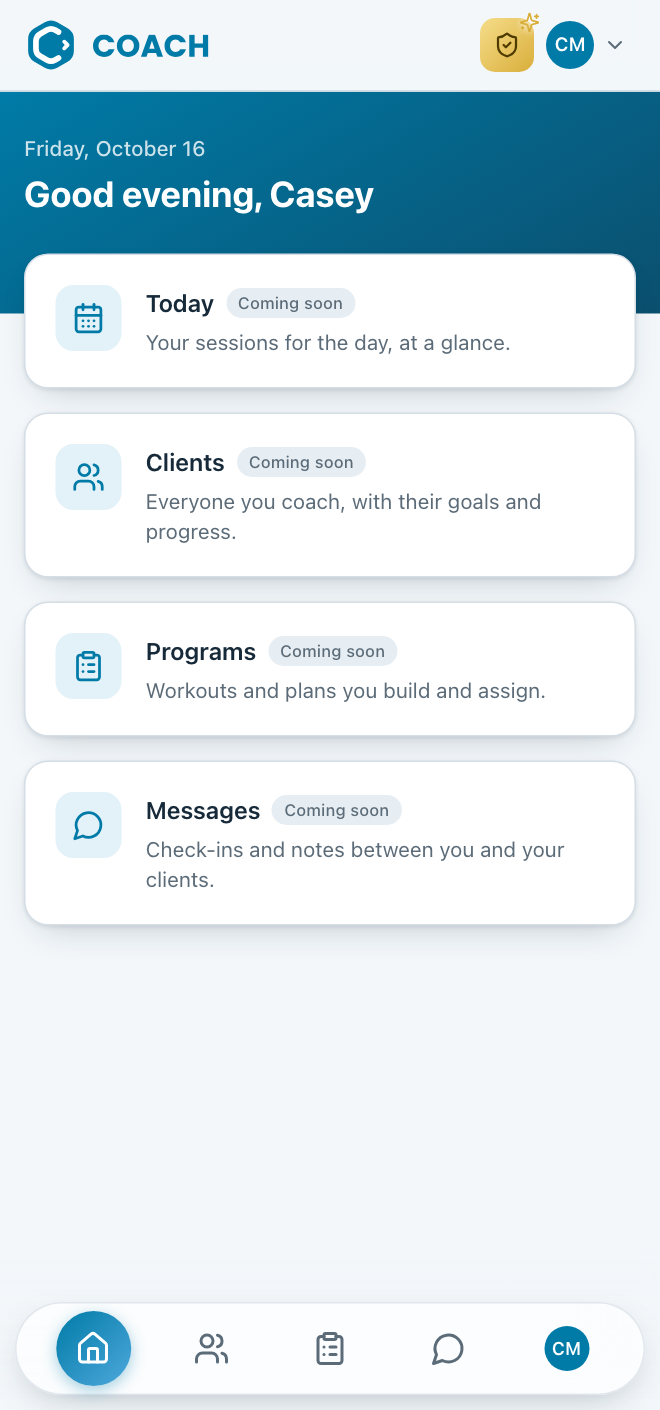
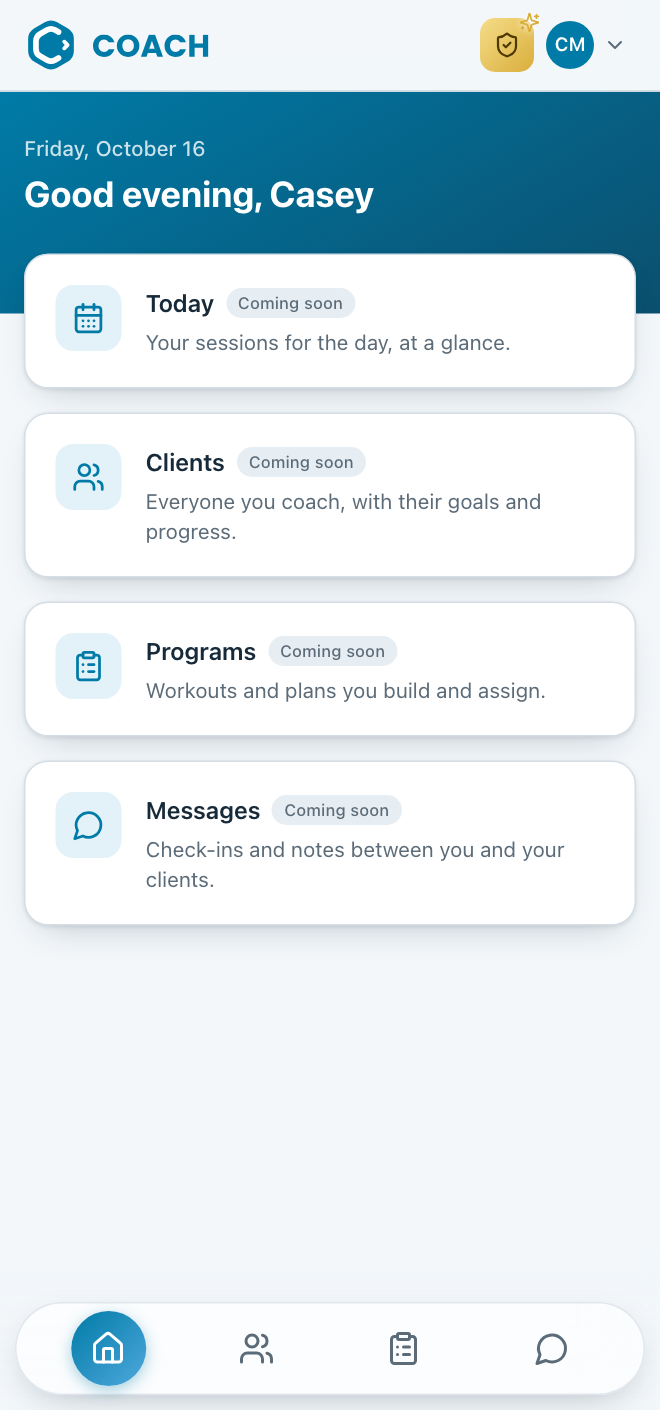
Account menu stays shaded while open; no Profile tab; Coach: programs, progress, and nutrition

diff --git a/src/chrome/Header.jsx b/src/chrome/Header.jsx
@@ -23,8 +23,8 @@ const ROLE = { master: "Master", admin: "Admin" };
  * pointer the badge opens out, as Studio's does: the mark becomes the app's
  * own icon (the tile on a home screen) and its name slides out beside it.
  *
- * Pressed, it folds out the apps panel underneath: Coach, where you are, and
- * Studio, a tap away. Every Coach account is a Studio account, so both are
+ * Pressed, it folds out the apps panel underneath: Coach (ticked, where you
+ * are) and Studio, a tap away, each with a line on what it is for. Every Coach account is a Studio account, so both are
  * always there. Open, the badge stops being a badge on top of a panel and
  * becomes the top of it: one fill, one outline (.cx-logo-badge-open).
  */
@@ -131,11 +131,12 @@ export function Header({ user, onLogout }) {
               <div id="cx-apps-title" className="text-xs uppercase tracking-wide px-2 pt-1 pb-2" style={{ color: "var(--iron)" }}>
                 Trainability apps
               </div>
-              <button type="button" className="cx-app-row" aria-current="page" onClick={() => close({ restoreFocus: true })}>
+              {/* The app you are in: the tick says so, and a screen reader is told by aria-current. */}
+              <button type="button" className="cx-app-row" aria-current="page" aria-label="Coach, the app you are in: programs, progress, and nutrition" onClick={() => close({ restoreFocus: true })}>
                 <img src={coachIcon} alt="" className="flex-none" style={{ width: 40, height: 40, borderRadius: 10 }} />
                 <span className="min-w-0 flex-1 text-left">
                   <span className="block font-semibold">Coach</span>
-                  <span className="block text-sm" style={{ color: "var(--iron)" }}>You&apos;re here</span>
+                  <span className="block text-sm" style={{ color: "var(--iron)" }}>Programs, progress, and nutrition</span>
                 </span>
                 <Check size={20} className="flex-none" style={{ color: "var(--accent)" }} aria-hidden="true" />
               </button>

diff --git a/src/chrome/AccountMenu.jsx b/src/chrome/AccountMenu.jsx
@@ -10,8 +10,8 @@ const ROLE = { master: "Master", admin: "Admin", staff: "Front desk", trainer: "
  * You, in the corner: your photo or initials with a chevron, opening a menu
  * with who is signed in, Open Studio, Log out and the version. Coach's first
  * header had it (Glenn liked it and asked for it back, 16 Oct 2026); it sits
- * after the role badge, and Profile on the tab bar holds the same things.
- * Your name shows beside the photo where there is room.
+ * after the role badge, and is the one place for these — the tab bar has no
+ * Profile. Your name shows beside the photo where there is room.
  */
 export function AccountMenu({ user, onLogout }) {
   const [open, setOpen] = useState(false);
@@ -32,7 +32,9 @@ export function AccountMenu({ user, onLogout }) {
     <div className="relative" ref={ref}>
       <button ref={btnRef} type="button" onClick={() => setOpen(o => !o)} aria-expanded={open} aria-haspopup="menu"
         aria-label={`${user.name}: account menu`}
-        className="flex items-center gap-1.5 rounded-full pl-0.5 pr-1.5 h-9 transition-colors hover:bg-(--ghost-fill)">
+        className="flex items-center gap-1.5 rounded-full pl-0.5 pr-1.5 h-9 transition-colors hover:bg-(--ghost-fill)"
+        /* Highlighted for as long as its menu is open, not only under the pointer. */
+        style={open ? { background: "var(--ghost-fill)" } : undefined}>
         <Avatar user={user} size={32} />
         <span className="hidden sm:block text-sm font-medium max-w-48 truncate" style={{ color: "var(--ink)" }}>{user.name}</span>
         <ChevronDown size={16} style={{ color: "var(--iron)", transform: open ? "rotate(180deg)" : undefined, transition: "transform .2s ease" }} aria-hidden="true" />

diff --git a/src/chrome/BottomNav.jsx b/src/chrome/BottomNav.jsx
@@ -1,5 +1,4 @@
 import React, { useLayoutEffect, useRef, useState } from "react";
-import { Avatar } from "./Avatar";
 
 /* How far the lit circle reaches past its tab: into the bar's padding above
    and below, as in Studio. */
@@ -12,9 +11,10 @@ const LIT_Y = 1;
  * its name for a screen reader and as the browser's tooltip; the names are on
  * each screen's heading.
  *
- * Profile is the last tab and wears your photo or initials, as in Studio.
+ * No Profile tab, unlike Studio: who you are and Log out live in the account
+ * menu in the header's corner (Glenn, 16 Oct 2026).
  */
-export function BottomNav({ tabs, activeTab, onChange, user }) {
+export function BottomNav({ tabs, activeTab, onChange }) {
   const barRef = useRef(null);
   const [lit, setLit] = useState(null);
 
@@ -49,9 +49,7 @@ export function BottomNav({ tabs, activeTab, onChange, user }) {
             <button key={id} type="button" data-tab={id} onClick={() => onChange(id)}
               aria-label={label} title={label} aria-current={on ? "page" : undefined}
               className={`cx-navbtn${on ? " cx-navbtn-on" : ""}`}>
-              {id === "profile"
-                ? <Avatar user={user} size={30} ring={on ? "#fff" : undefined} />
-                : <Icon size={24} strokeWidth={2} aria-hidden="true" />}
+              <Icon size={24} strokeWidth={2} aria-hidden="true" />
             </button>
           );
         })}

diff --git a/src/index.css b/src/index.css
@@ -163,7 +163,7 @@
     border-bottom-left-radius: 0; border-bottom-right-radius: 0; box-shadow: none; }
 
   /* The apps panel, slid down out of the badge and back up into it. */
-  .cx-appdrawer { position: absolute; top: 45px; left: -10px; z-index: 35; width: min(20rem, calc(100vw - 12px));
+  .cx-appdrawer { position: absolute; top: 45px; left: -10px; z-index: 35; width: min(22.5rem, calc(100vw - 12px));
     max-height: 0; overflow: hidden; overflow: clip; transition: max-height .22s ease; pointer-events: none; }
   .cx-appdrawer-open { max-height: 70vh; max-height: 70dvh; pointer-events: auto; }
   .cx-apppanel { background: var(--badge-open); border: 1px solid var(--iron-line); border-top-left-radius: 0;
@@ -205,10 +205,6 @@
     box-shadow: 0 3px 10px rgba(0, 123, 167, 0.35);
     transition: transform .3s cubic-bezier(.3, .7, .2, 1), width .3s cubic-bezier(.3, .7, .2, 1); }
 
-  /* A row in a card that does something: Profile's Open Studio and Log out. */
-  .cx-row { display: flex; align-items: center; gap: 12px; width: 100%; padding: 14px 18px; text-align: left;
-    color: var(--ink); transition: background-color .15s ease; }
-  .cx-row:hover { background: var(--ghost-fill); }
   .cx-card-press { transition: transform .15s ease, box-shadow .15s ease; }
   .cx-card-press:hover { transform: translateY(-1px); }
 

diff --git a/src/Shell.jsx b/src/Shell.jsx
@@ -1,10 +1,9 @@
 import React, { useEffect, useState } from "react";
-import { House, Users, ClipboardList, MessageCircle, UserRound } from "lucide-react";
+import { House, Users, ClipboardList, MessageCircle } from "lucide-react";
 import { Header } from "./chrome/Header";
 import { BottomNav } from "./chrome/BottomNav";
 import { HomeTab } from "./tabs/HomeTab";
 import { ComingSoonTab } from "./tabs/ComingSoonTab";
-import { ProfileTab } from "./tabs/ProfileTab";
 import { SECTIONS } from "./tabs/sections";
 
 const TABS = [
@@ -12,7 +11,6 @@ const TABS = [
   { id: "clients", label: "Clients", icon: Users },
   { id: "programs", label: "Programs", icon: ClipboardList },
   { id: "messages", label: "Messages", icon: MessageCircle },
-  { id: "profile", label: "Profile", icon: UserRound },
 ];
 const KEY = "coach-tab";
 
@@ -32,9 +30,8 @@ export function Shell({ user, onLogout }) {
       <main className="pb-32">
         {tab === "home" && <HomeTab user={user} onOpen={open} />}
         {SECTIONS[tab] && <ComingSoonTab section={SECTIONS[tab]} />}
-        {tab === "profile" && <ProfileTab user={user} onLogout={onLogout} />}
       </main>
-      <BottomNav tabs={TABS} activeTab={tab} onChange={open} user={user} />
+      <BottomNav tabs={TABS} activeTab={tab} onChange={open} />
     </div>
   );
 }

diff --git a/src/chrome/Avatar.jsx b/src/chrome/Avatar.jsx
@@ -5,9 +5,9 @@ const initials = (name = "") =>
 
 /* Somebody's photo, or their initials on a cerulean disc when there is none or
    it will not load. */
-export function Avatar({ user, size = 32, ring }) {
+export function Avatar({ user, size = 32 }) {
   const [broken, setBroken] = useState(false);
-  const style = { width: size, height: size, ...(ring ? { boxShadow: `0 0 0 2px ${ring}` } : null) };
+  const style = { width: size, height: size };
   if (user.photoUrl && !broken) {
     return <img src={user.photoUrl} alt="" onError={() => setBroken(true)} className="rounded-full object-cover flex-none" style={style} />;
   }

diff --git a/NEURALBRAIN.md b/NEURALBRAIN.md
@@ -22,6 +22,8 @@ downwards means going backwards in time.
 
 # Completed brainstorm
 
+- **The account menu as the only place for you; no Profile tab; Coach's line in the selector** (16 Oct 2026; Glenn: "can you keep that background you had when selecting the profile menu on top? then remove the profile button on the nav bar", then "for the coach description on the app selector, write \"programs, progress, and nutrition\""). "That background" read as the shaded pill the account button showed under the pointer: it now stays (`--ghost-fill`, set inline while `open`) for as long as the menu is open, with the chevron turned up, checked with the pointer moved away. The Profile tab came off the bar, leaving four tabs (Home, Clients, Programs, Messages), and `src/tabs/ProfileTab.jsx` was deleted, with `.cx-row` and Avatar's `ring` going with it. Everything it held was already in the account menu, and a stale `coach-tab` of "profile" in sessionStorage falls back to Home. This is a deliberate step away from Studio, which keeps Profile on its bar. The selector's Coach row reads "Programs, progress, and nutrition" in place of "You're here". The tick and `aria-current` still say it is the app you are in, and an `aria-label` says so in words. That line wrapped at phone width, so the panel went from 20rem to 22.5rem (still capped at the screen less 12px). Manual: 3.3 has four buttons, 3.5 is now "Your account menu" with its own picture (`04-account`, replacing `04-profile`), 2.5 logs out from the menu only, and the word list and CHANGELOG 1.0 are updated.
+
 - **The account menu back beside the badge; Studio's line in the apps panel** (16 Oct 2026; Glenn: "for studio, have the description say \"schedule, sessions, and payments\"", and "I like the way you did with having the profile picture of the logged in user with a chevron pointing down then showing the submenu. Bring that back next to the user level badge."). The apps panel's Studio row now reads "Schedule, sessions, and payments", in Glenn's words and with his comma. The menu from Coach's first header came back as `src/chrome/AccountMenu.jsx`, recovered from git (`src/home/Header.jsx` before `cc8f1e9`) and restyled for the light header. That header was navy, with white text and a `white/10` hover; now it is ink text, a `--ghost-fill` hover and `--badge-open` behind the menu. It sits last in the header's badge row, after the role badge, so it holds the corner. It shows the 32px photo or initials, the name beside them from `sm` up, and a chevron that turns over while open. The menu has the name, email and kind of account ("Primary Master" where it applies, as on the badge and Profile), Open Studio, Log out and the version. Escape closes it with focus back on the button, and a press outside closes it too. The apps panel and this menu each close on a press outside themselves, so opening one closes the other (checked). Profile on the tab bar stays, holding the same things, as Glenn asked for this as well as Profile, not instead of it. The manual now has the menu in 3.1 and both ways to log out in 2.5, the word list and CHANGELOG 1.0 are updated, and the screenshots were retaken.
 
 - **Studio's header and tab bar, and the logo as the app switcher** (16 Oct 2026; Glenn: "some housekeeping lets copy the header bar and the nav bar from Studio, including the way the logo is shown. When you click on the logo now, the panel that folds out shoudl show Coach and Studio, this is a quick way to switch between apps if you have trainer account on Studio."). Copied from Studio's current code (src/chrome/Header.jsx, BottomNav.jsx, useFloatingBar.js and the theme.jsx rules behind them), not from its older screenshots, which still show a hexagon-ended bar: it has since become a pill with a lit circle. **Header** (`src/chrome/Header.jsx`): sticky, on the page's own background with a hairline under it, everything one 36px badge tall. The logo is `.cx-logo-badge`, anchored in the corner as Studio's `.iw-logo-badge` is, with two marks in one slot: the logo kit's badge at rest (cerulean on light, white on dark, through `<picture>`), and the app icon opened out, with COACH sliding out beside it. COACH is the lockup's own outline, cut out into `src/chrome/CoachWordmark.jsx` in `currentColor` (`--wordmark`: cerulean, sky in dark), as Studio sets STUDIO 3 with StudioLockupArt. It opens out under a pointer that can hover (`@media (hover: hover)`, so a tap on a phone does not leave it stuck open), on keyboard focus, and while its panel is open. **The switcher** is new rather than copied: clicking the logo folds down `.cx-apppanel`, built the way Studio's picker panel and Billy's join their buttons, with one fill and one outline, the badge squared off underneath (`.cx-logo-badge-open`). It slides on `max-height` with Studio's 220 ms put-on-the-page-a-frame-early trick, and closes on Escape (focus back to the logo), a press outside, or picking Coach. Rows: Coach ("You're here", a tick, `aria-current`) and Studio ("Schedule, clients and payments", a link to `STUDIO_URL`, with Studio's own `icon-192.png` copied in as `src/assets/studio-app-icon.png`). Always both, since every Coach account is a Studio account. The right of the header has Studio's role badges: a shield opening out to Admin, Master or Primary Master (gold, with Studio's sparkles), and none for a trainer. **Tab bar** (`src/chrome/BottomNav.jsx`): fixed at the bottom, a frosted pill (chalk at 72% with an 18px blur, at most 28rem wide) with a softening blur above it, icons only (names as `aria-label` and tooltip), and the lit tab a cerulean-to-sky circle (`.cx-nav-lit`) measured from the tab's box and slid with Studio's easing. Profile wears the photo or initials. Studio's drag-the-pill, groups and landscape rail are left out: five tabs need none of them. Tabs: Home, Clients, Programs, Messages, Profile (`src/Shell.jsx`; the tab is remembered in sessionStorage for the browser tab). The account dropdown went: as in Studio, who you are, Open Studio, Log out and the version are on **Profile** (`src/tabs/ProfileTab.jsx`). Clients, Programs and Messages open Coming soon pages, and their Home cards open those tabs too. `src/home/` became `src/tabs/` and `src/chrome/`. Checked in the browser at phone width in light and dark, and measured at 1280 wide (bar centred, 448 px): the panel opens, Escape closes it with focus back on the logo, and the tabs switch. Profile said "Master" where the header said "Primary Master", so it was made to match. Manual chapter 3 rewritten as "Finding your way around" (the top bar, switching apps, the bottom bar, Home, Profile, light or dark), sign-out in 2.5 now goes through Profile, and `npm run screenshots` takes two more pictures (`03-apps`, `04-profile`). CHANGELOG 1.0 updated.
@@ -98,7 +100,7 @@ here as it arrives.
    - [3.2 Switching between Coach and Studio](#32-switching-between-coach-and-studio)
    - [3.3 The bar at the bottom](#33-the-bar-at-the-bottom)
    - [3.4 The home screen](#34-the-home-screen)
-   - [3.5 Your profile](#35-your-profile)
+   - [3.5 Your account menu](#35-your-account-menu)
    - [3.6 Light or dark](#36-light-or-dark)
 4. [Words this app uses](#4-words-this-app-uses)
 5. [When something goes wrong](#5-when-something-goes-wrong)
@@ -226,8 +228,7 @@ time you sign in to Coach.
 
 #### 2.5 Signing out
 
-1. Tap your photo or initials — either the one in the top right corner, or
-   **Profile**, last on the bar at the bottom.
+1. Tap your photo or initials in the top right corner.
 2. Tap **Log out**.
 
 You are back on the sign-in screen. Signing out of Coach does not sign you out
@@ -253,14 +254,8 @@ Across the top of every screen:
   Master. On a computer, point at it and it says which: **Admin**, **Master**
   or **Primary Master**. A trainer's account has no shield.
 - **In the corner**, your photo (or your initials) with a small arrow
-  pointing down — your account menu. On a wider screen your name is beside
-  it.
-
-**Your account menu.** Tap your photo or initials in the top right corner. A
-small panel opens with your name, your email address and what kind of account
-you have, then **Open Studio**, **Log out**, and the version on the last line.
-It holds the same things as Profile (3.5), so use whichever is closer. To close
-it, tap anywhere else or press Esc.
+  pointing down — your account menu (3.5). On a wider screen your name is
+  beside it.
 
 The bar stays at the top as you scroll.
 
@@ -277,7 +272,8 @@ between them.
    icon with **COACH** beside it, and a panel folds down underneath with the
    heading **TRAINABILITY APPS**.
 2. The panel lists both apps:
-   - **Coach** — *You're here*, with a tick.
+   - **Coach** — *Programs, progress, and nutrition*. The tick beside it
+     means it is the app you are in.
    - **Studio** — *Schedule, sessions, and payments*.
 3. Tap **Studio** to go to Studio. If you are not signed in there, sign in with
    the same email and password.
@@ -291,7 +287,7 @@ On a computer, just pointing at the logo opens it out to show the app icon and
 #### 3.3 The bar at the bottom
 
 The rounded bar floating at the bottom of the screen moves you between the
-parts of Coach. It has five buttons, as pictures with no words:
+parts of Coach. It has four buttons, as pictures with no words:
 
 | Button | Picture | Goes to |
 |---|---|---|
@@ -299,7 +295,6 @@ parts of Coach. It has five buttons, as pictures with no words:
 | **Clients** | Two people | Clients — coming soon. |
 | **Programs** | A clipboard with a list | Programs — coming soon. |
 | **Messages** | A speech bubble | Messages — coming soon. |
-| **Profile** | Your photo, or your initials | Your profile (3.5). |
 
 The one you are on sits in a filled blue circle, which slides across when you
 tap another. On a computer, pointing at a button shows its name.
@@ -331,22 +326,26 @@ Each is marked **Coming soon**. Tapping **Clients**, **Programs** or
 If you are signed in with a temporary password, a box at the top of Home says
 so — see 2.4.
 
-#### 3.5 Your profile
+#### 3.5 Your account menu
 
-![Profile](docs/images/04-profile.png)
+![Your account menu, open](docs/images/04-account.png)
 
-*Profile*
+*Your account menu, open*
 
-Tap **Profile** — your photo or initials, last on the bottom bar.
+1. Tap your photo or initials in the top right corner. The button stays
+   shaded, and its arrow turns to point up, while the menu is open.
+2. The menu shows:
+   - **Your name**, your email address, and what kind of account you have:
+     **Trainer**, **Admin**, **Master**, **Primary Master** or **Front desk** —
+     the same as in Studio.
+   - **Open Studio** — goes to Studio, at trainabilitystudio.com.
+   - **Log out** — signs you out (2.5).
+   - **The last line** is the version the app is on, such as
+     *Version 1.0.0 · Caesious*. If you ever report a problem, say which
+     version it was.
 
-- **The card at the top** has your name, your email address and what kind of
-  account you have: **Trainer**, **Admin**, **Master**, **Primary Master** or
-  **Front desk** — the same as in Studio.
-- **Open Studio** goes to Studio, at trainabilitystudio.com.
-- **Log out** signs you out (2.5).
-- **The last line** is the version the app is on, such as
-  *Version 1.0.0 · Caesious*. If you ever report a problem, say which version
-  it was.
+To close it without choosing anything, tap the photo again, tap anywhere else,
+or press Esc on a keyboard.
 
 #### 3.6 Light or dark
 
@@ -368,9 +367,8 @@ and light otherwise. There is nothing to set in the app.
 | **Keep me logged in** | The tick box that keeps you signed in for up to 30 days on this device (2.2). |
 | **Coming soon** | A part of Coach that is planned but not built yet. |
 | **Apps panel** | The panel that folds down from the Coach logo, for switching between Coach and Studio (3.2). |
-| **Profile** | The last button on the bottom bar: who is signed in, Open Studio and Log out (3.5). |
-| **Account menu** | The menu under your photo in the top right corner: the same things as Profile (3.1). |
-| **Version** | Which release of Coach you are using: a number such as 1.0.0, and the release's name, such as Caesious. Shown on the sign-in screen, in your account menu and at the foot of Profile. |
+| **Account menu** | The menu under your photo in the top right corner: who is signed in, Open Studio, Log out and the version (3.5). |
+| **Version** | Which release of Coach you are using: a number such as 1.0.0, and the release's name, such as Caesious. Shown on the sign-in screen and at the foot of your account menu. |
 
 <div style="page-break-after: always;"></div>
 

diff --git a/MANUAL.md b/MANUAL.md
@@ -27,7 +27,7 @@ here as it arrives.
    - [3.2 Switching between Coach and Studio](#32-switching-between-coach-and-studio)
    - [3.3 The bar at the bottom](#33-the-bar-at-the-bottom)
    - [3.4 The home screen](#34-the-home-screen)
-   - [3.5 Your profile](#35-your-profile)
+   - [3.5 Your account menu](#35-your-account-menu)
    - [3.6 Light or dark](#36-light-or-dark)
 4. [Words this app uses](#4-words-this-app-uses)
 5. [When something goes wrong](#5-when-something-goes-wrong)
@@ -155,8 +155,7 @@ time you sign in to Coach.
 
 ### 2.5 Signing out
 
-1. Tap your photo or initials — either the one in the top right corner, or
-   **Profile**, last on the bar at the bottom.
+1. Tap your photo or initials in the top right corner.
 2. Tap **Log out**.
 
 You are back on the sign-in screen. Signing out of Coach does not sign you out
@@ -182,14 +181,8 @@ Across the top of every screen:
   Master. On a computer, point at it and it says which: **Admin**, **Master**
   or **Primary Master**. A trainer's account has no shield.
 - **In the corner**, your photo (or your initials) with a small arrow
-  pointing down — your account menu. On a wider screen your name is beside
-  it.
-
-**Your account menu.** Tap your photo or initials in the top right corner. A
-small panel opens with your name, your email address and what kind of account
-you have, then **Open Studio**, **Log out**, and the version on the last line.
-It holds the same things as Profile (3.5), so use whichever is closer. To close
-it, tap anywhere else or press Esc.
+  pointing down — your account menu (3.5). On a wider screen your name is
+  beside it.
 
 The bar stays at the top as you scroll.
 
@@ -206,7 +199,8 @@ between them.
    icon with **COACH** beside it, and a panel folds down underneath with the
    heading **TRAINABILITY APPS**.
 2. The panel lists both apps:
-   - **Coach** — *You're here*, with a tick.
+   - **Coach** — *Programs, progress, and nutrition*. The tick beside it
+     means it is the app you are in.
    - **Studio** — *Schedule, sessions, and payments*.
 3. Tap **Studio** to go to Studio. If you are not signed in there, sign in with
    the same email and password.
@@ -220,7 +214,7 @@ On a computer, just pointing at the logo opens it out to show the app icon and
 ### 3.3 The bar at the bottom
 
 The rounded bar floating at the bottom of the screen moves you between the
-parts of Coach. It has five buttons, as pictures with no words:
+parts of Coach. It has four buttons, as pictures with no words:
 
 | Button | Picture | Goes to |
 |---|---|---|
@@ -228,7 +222,6 @@ parts of Coach. It has five buttons, as pictures with no words:
 | **Clients** | Two people | Clients — coming soon. |
 | **Programs** | A clipboard with a list | Programs — coming soon. |
 | **Messages** | A speech bubble | Messages — coming soon. |
-| **Profile** | Your photo, or your initials | Your profile (3.5). |
 
 The one you are on sits in a filled blue circle, which slides across when you
 tap another. On a computer, pointing at a button shows its name.
@@ -260,22 +253,26 @@ Each is marked **Coming soon**. Tapping **Clients**, **Programs** or
 If you are signed in with a temporary password, a box at the top of Home says
 so — see 2.4.
 
-### 3.5 Your profile
+### 3.5 Your account menu
 
-![Profile](docs/images/04-profile.png)
+![Your account menu, open](docs/images/04-account.png)
 
-*Profile*
+*Your account menu, open*
 
-Tap **Profile** — your photo or initials, last on the bottom bar.
+1. Tap your photo or initials in the top right corner. The button stays
+   shaded, and its arrow turns to point up, while the menu is open.
+2. The menu shows:
+   - **Your name**, your email address, and what kind of account you have:
+     **Trainer**, **Admin**, **Master**, **Primary Master** or **Front desk** —
+     the same as in Studio.
+   - **Open Studio** — goes to Studio, at trainabilitystudio.com.
+   - **Log out** — signs you out (2.5).
+   - **The last line** is the version the app is on, such as
+     *Version 1.0.0 · Caesious*. If you ever report a problem, say which
+     version it was.
 
-- **The card at the top** has your name, your email address and what kind of
-  account you have: **Trainer**, **Admin**, **Master**, **Primary Master** or
-  **Front desk** — the same as in Studio.
-- **Open Studio** goes to Studio, at trainabilitystudio.com.
-- **Log out** signs you out (2.5).
-- **The last line** is the version the app is on, such as
-  *Version 1.0.0 · Caesious*. If you ever report a problem, say which version
-  it was.
+To close it without choosing anything, tap the photo again, tap anywhere else,
+or press Esc on a keyboard.
 
 ### 3.6 Light or dark
 
@@ -297,9 +294,8 @@ and light otherwise. There is nothing to set in the app.
 | **Keep me logged in** | The tick box that keeps you signed in for up to 30 days on this device (2.2). |
 | **Coming soon** | A part of Coach that is planned but not built yet. |
 | **Apps panel** | The panel that folds down from the Coach logo, for switching between Coach and Studio (3.2). |
-| **Profile** | The last button on the bottom bar: who is signed in, Open Studio and Log out (3.5). |
-| **Account menu** | The menu under your photo in the top right corner: the same things as Profile (3.1). |
-| **Version** | Which release of Coach you are using: a number such as 1.0.0, and the release's name, such as Caesious. Shown on the sign-in screen, in your account menu and at the foot of Profile. |
+| **Account menu** | The menu under your photo in the top right corner: who is signed in, Open Studio, Log out and the version (3.5). |
+| **Version** | Which release of Coach you are using: a number such as 1.0.0, and the release's name, such as Caesious. Shown on the sign-in screen and at the foot of your account menu. |
 
 <div style="page-break-after: always;"></div>
 

diff --git a/CHANGELOG.md b/CHANGELOG.md
@@ -17,11 +17,9 @@ The first version of Trainability Coach, live at trainabilitycoach.com.
   of Coach on the way: Today, Clients, Programs and Messages, each marked
   Coming soon.
 - **Studio's header and tab bar.** The Coach logo and name across the top,
-  and a floating bar at the bottom for Home, Clients, Programs, Messages and
-  Profile.
+  and a floating bar at the bottom for Home, Clients, Programs and Messages.
 - **Switch between Coach and Studio.** Tap the Coach logo and a panel folds
   down with both apps; Studio is one tap away.
-- **Your account menu and Profile.** Your photo in the top corner opens a menu
-  with your name, email and kind of account, Open Studio, Log out and the
-  version; Profile, on the bar, holds the same.
+- **Your account menu.** Your photo in the top corner opens a menu with your
+  name, email and kind of account, Open Studio, Log out and the version.
 - **Light or dark,** following your phone or computer.
